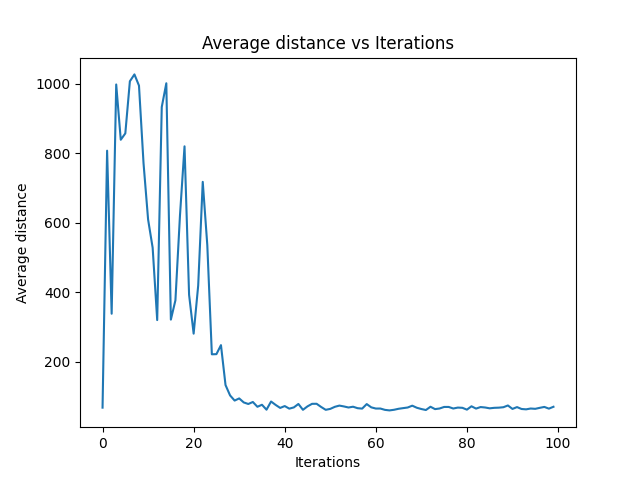
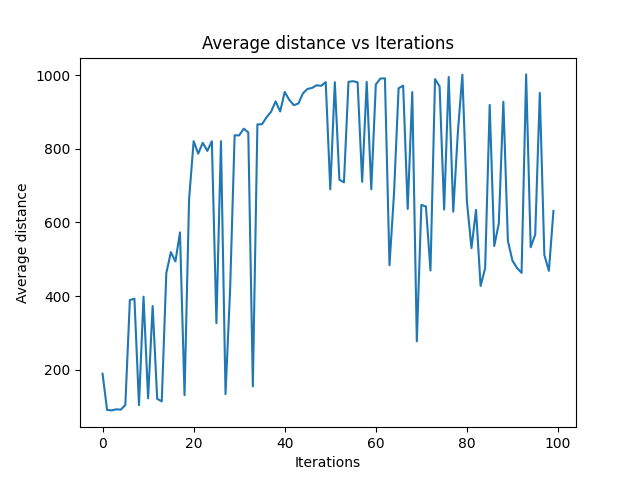
part 1a partially done fixes

diff --git a/tabular_q.py b/tabular_q.py
@@ -51,7 +51,11 @@ class TabularQAgent:
         self.qtable = dict() 
         self.avg_rewards_training = []
         self.avg_dist_training = []
-
+    def get_action(self,state):
+        if state in self.qtable:
+            return np.argmax(self.qtable[state])
+        else:
+            return ACTION_NO_OP
     def choose_action(self, state, greedy = False):
 
         '''
@@ -61,6 +65,7 @@ class TabularQAgent:
         if(greedy):
             if(state not in self.qtable):
                 self.qtable[state] = np.zeros(5)
+                return np.random.randint(0, 5)
             return np.argmax(self.qtable[state])
         else:
             return np.random.randint(0, 5)
@@ -90,7 +95,7 @@ class TabularQAgent:
                 if state == -1:
                     action = ACTION_NO_OP
                 else:
-                    action = self.choose_action(state, True)
+                    action = self.get_action(state)
                 new_state, reward, stop, _ = self.env.step(action)
                 new_state = tuple(new_state) 
                 state = new_state 
@@ -125,7 +130,7 @@ class TabularQAgent:
                 if state == -1:
                     action = ACTION_NO_OP
                 else:
-                    action = self.choose_action(state, True)
+                    action = self.get_action(state)
                 new_state, reward, stop, _ = self.env.step(action)
                 new_state = tuple(new_state) 
                 state = new_state 
@@ -228,8 +233,9 @@ class TabularQAgent:
                 # How do i choose init
                 state = -1
                 if iterations%self.validate_every == 0:
+                    print(f'Iteration: {iterations}')
                     cur_avg_reward,cur_avg_dist = self.validate_policy() 
-                    self.avg_rewards_training.append(cur_avg_dist)
+                    self.avg_rewards_training.append(cur_avg_reward)
                     self.avg_dist_training.append(cur_avg_dist)
                 iterations += 1
                 
@@ -239,7 +245,8 @@ class TabularQAgent:
                     stop = True
             else:
                 target = reward + self.df * np.max(self.qtable[new_state])
-            self.qtable[state][action] += self.alpha * (target - self.qtable[state][action])
+            # self.qtable[state][action] += self.alpha * (target - self.qtable[state][action])
+            self.qtable[state][action] = (1-self.alpha)*self.qtable[state][action] + self.alpha*target
             state = new_state
 
     def plot_avg_rewards_dist(self):
@@ -277,7 +284,7 @@ if __name__ == '__main__':
         env = get_highway_env(dist_obs_states = 3, reward_type = 'dist')
     '''
     env = HighwayEnv()
-    qagent = TabularQAgent(env, 
+    qagent = TabularQAgent(env, iterations = args.iterations,
                            log_folder = args.output_folder)
     qagent.get_policy()
     qagent.plot_avg_rewards_dist()
